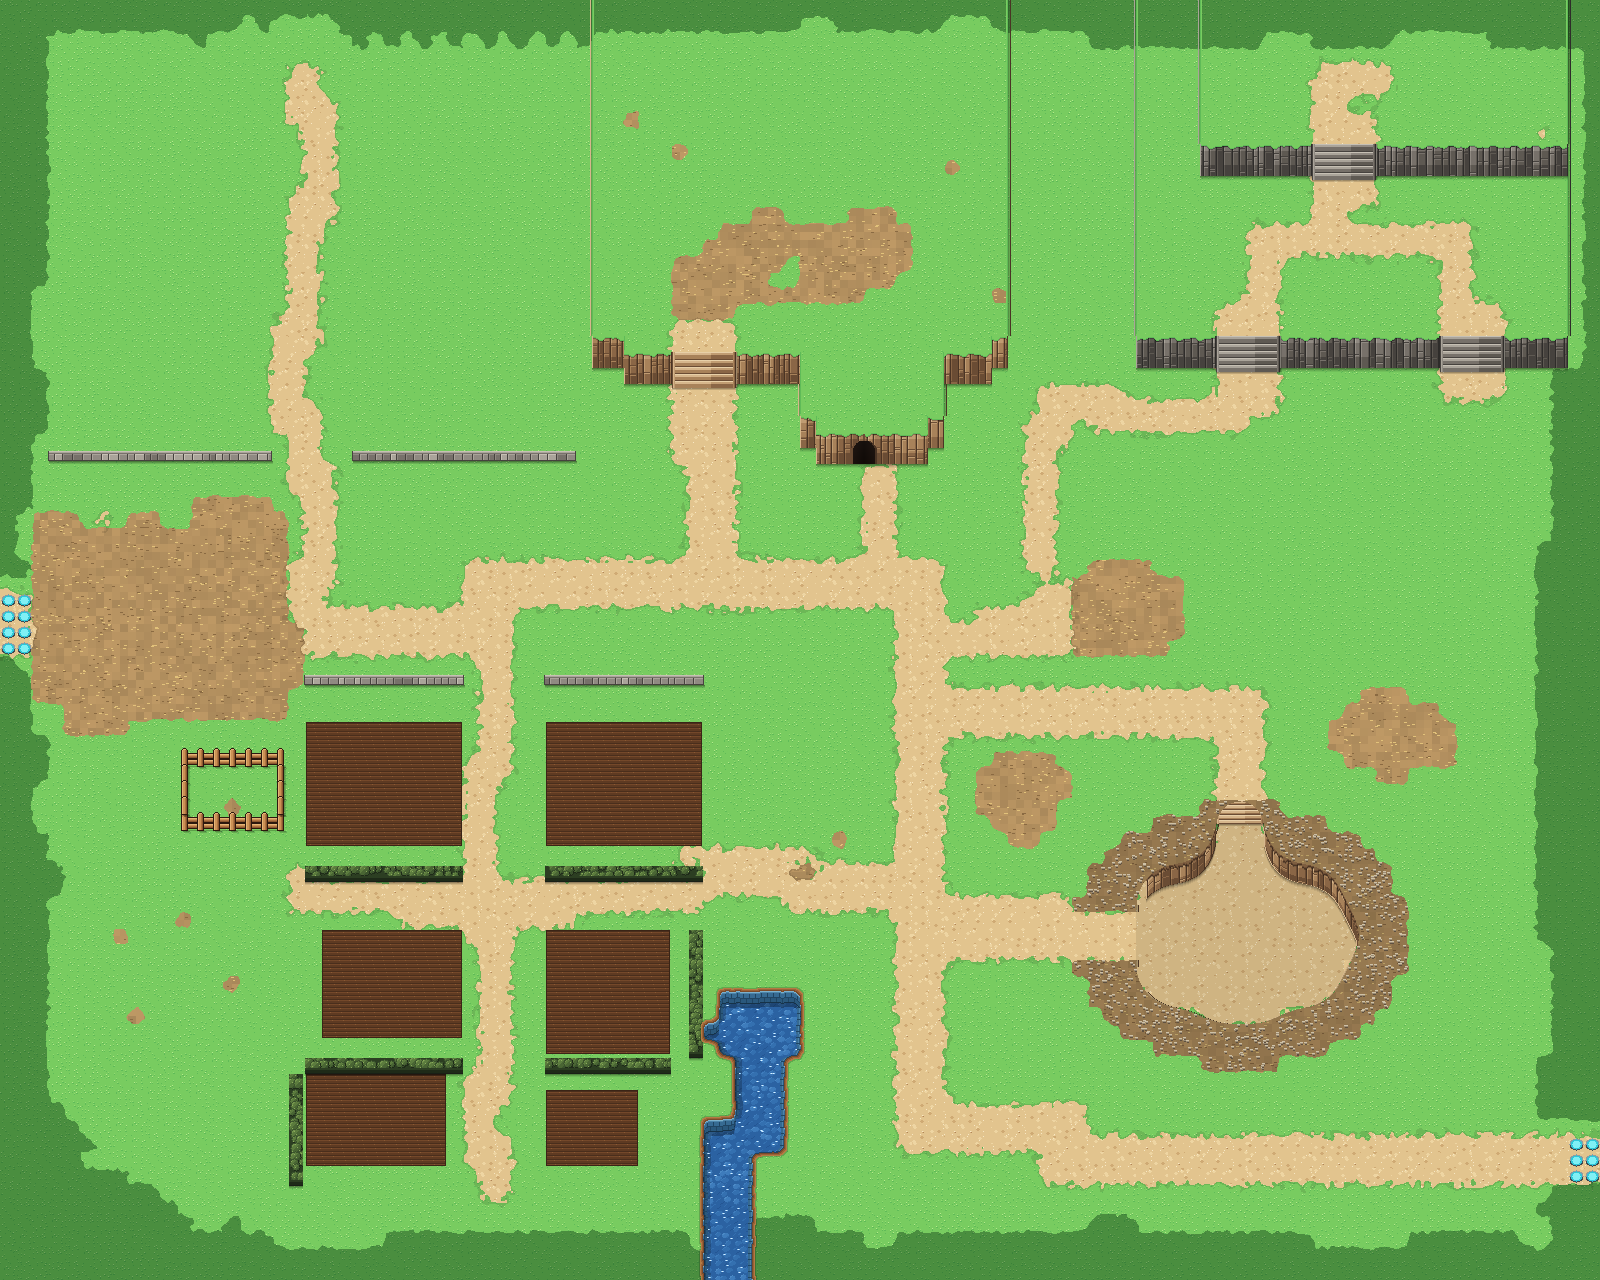
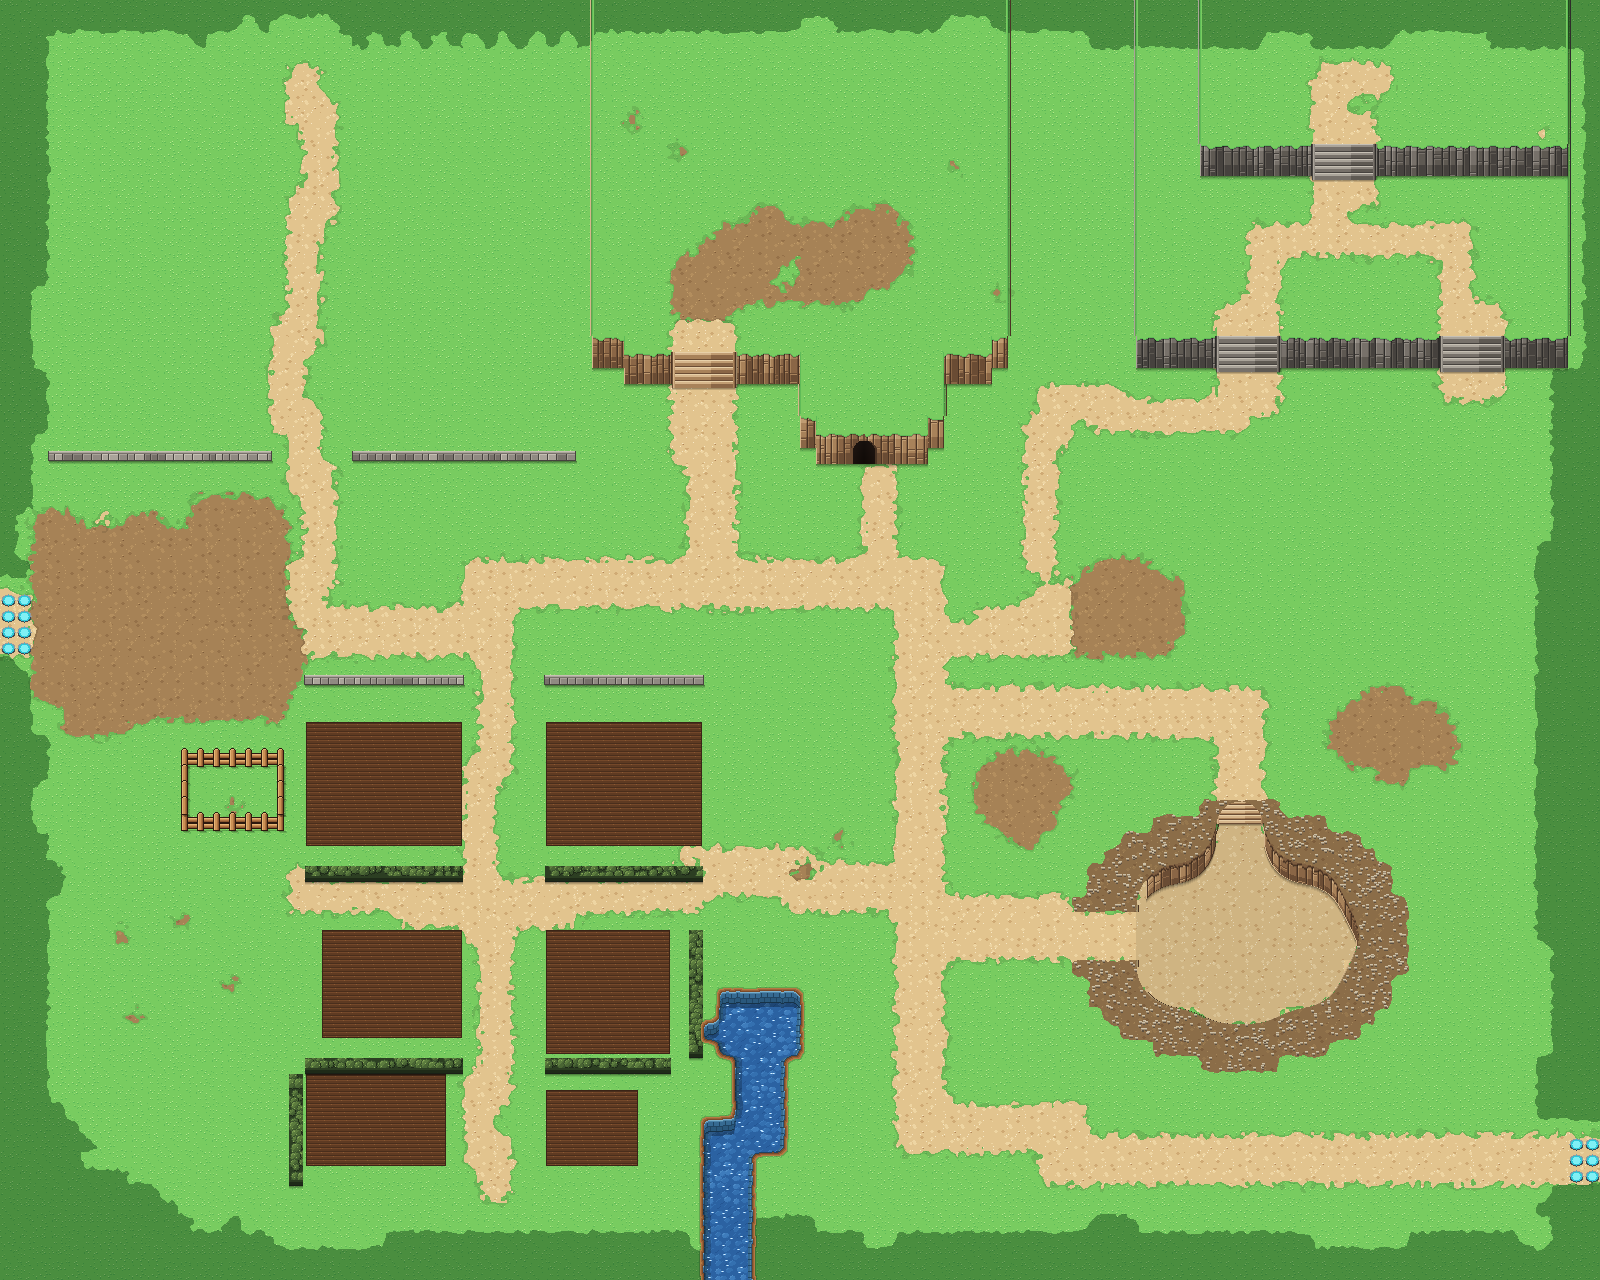
Karte 23: Erdboden im Kachelstil von Karte 01 (Sandkacheln braun) statt fleckiger Feld-Erde
Claude-Session: https://claude.ai/code/session_01SaoYHKhnro4LFcPJqjaPsq

diff --git a/tools/karte23_bauen.py b/tools/karte23_bauen.py
@@ -95,6 +95,12 @@ def hoehle(a, x0, x1, ytop, ybot):
                 a[y, x] = F[0] if x > cx else F[1]
 
 
+def braun(a):                     # Sandkacheln von Karte 01 -> Erdboden im selben Kachelstil (Hof, Erdflecken, Felsrand)
+    l = a.mean(axis=2, keepdims=True) / 255.0
+    lo, hi = np.array([112, 78, 48], np.float32), np.array([198, 160, 108], np.float32)
+    return lo + (hi - lo) * np.clip((l - 0.45) / 0.45, 0, 1)
+
+
 def nach_oben(hoch, bis=4 * T):
     """Hochflaechen, die (fast) am oberen Kartenrand beginnen, bis zum Rand verlaengern - nur in ihren eigenen Spalten
     (keine Kantenstummel am Kartenrand)."""
@@ -118,8 +124,11 @@ def bauen(frame=None, speichern=True):
     a = gras.copy()
     wm = weich(zell_maske(cls, 'h', cols, rows), 5, 0.4, 3)
     a[wm] = (gras[wm] * np.array([0.62, 0.7, 0.66])).astype(np.uint8)
-    fm = weich(zell_maske(cls, 'f', cols, rows), 4.0, 0.35, 9)
-    k20.feld(a, fm)
+    erde = flaeche(k6.kacheln(os.path.join(basis, 'sand_%d.png'), 5, braun), cols, rows)
+    fm = weich(zell_maske(cls, 'f', cols, rows), 7.0, 0.5, 9)
+    a[fm] = erde[fm]
+    saum_f = weich(zell_maske(cls, 'f', cols, rows), 7.0, 0.5, 9, 0.36) & ~fm
+    a[saum_f] = (a[saum_f] * 0.9).astype(np.uint8)
     roh = zell_maske(cls, 'wtTc', cols, rows)
     m = weich(roh, 7.0, 0.5, 4)
     a[m] = sand[m]
@@ -188,8 +197,7 @@ def bauen(frame=None, speichern=True):
     if zug_o:
         k4.treppe(a, tz0 * T, (tz1 + 1) * T, yt, 's', 20, 'erde', sand)
     rm = weich(zell_maske(cls, 'kc', cols, rows), 4, 0.35, 12) & ~wand & ~cm & ~maske_aus(cls, 'wt', cols, rows)   # Felsrand: steiniger Erdboden bis an die Senke
-    k20.feld(a, rm, seed=61)
-    a[rm] = (a[rm] * 0.82).astype(np.uint8)
+    a[rm] = (erde[rm] * 0.84).astype(np.uint8)
     rs = np.random.RandomState(62)
     ys_, xs_ = np.nonzero(rm)
     for i in rs.choice(len(ys_), len(ys_) // 40, replace=False):     # Steinchen
